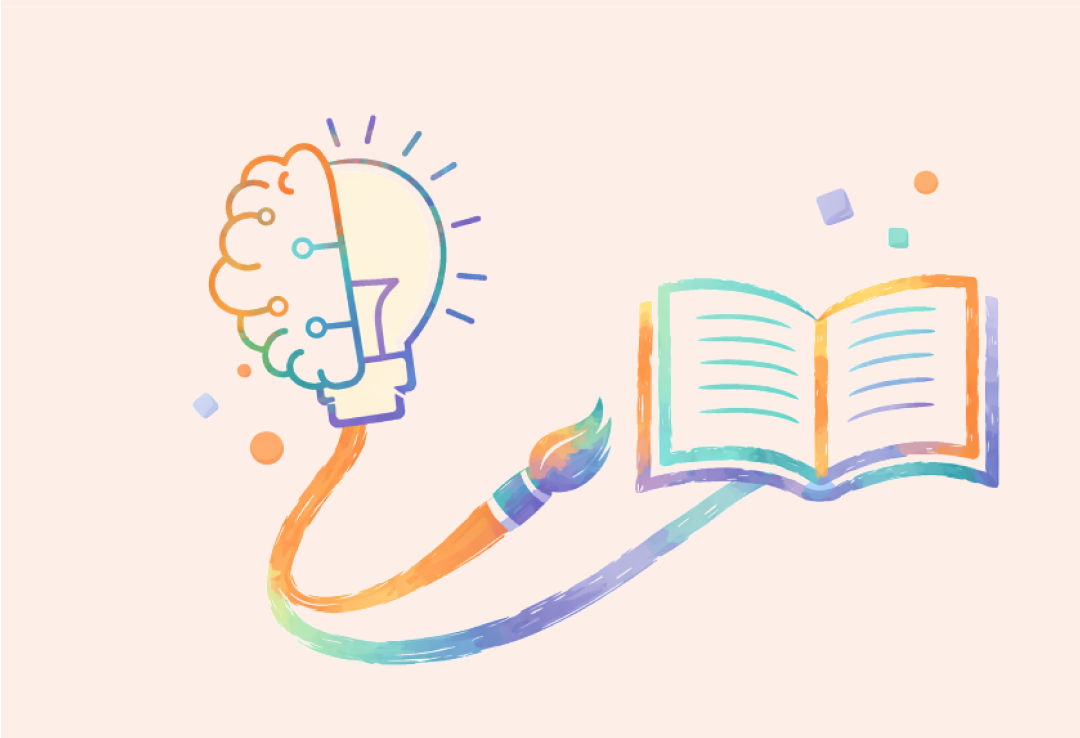
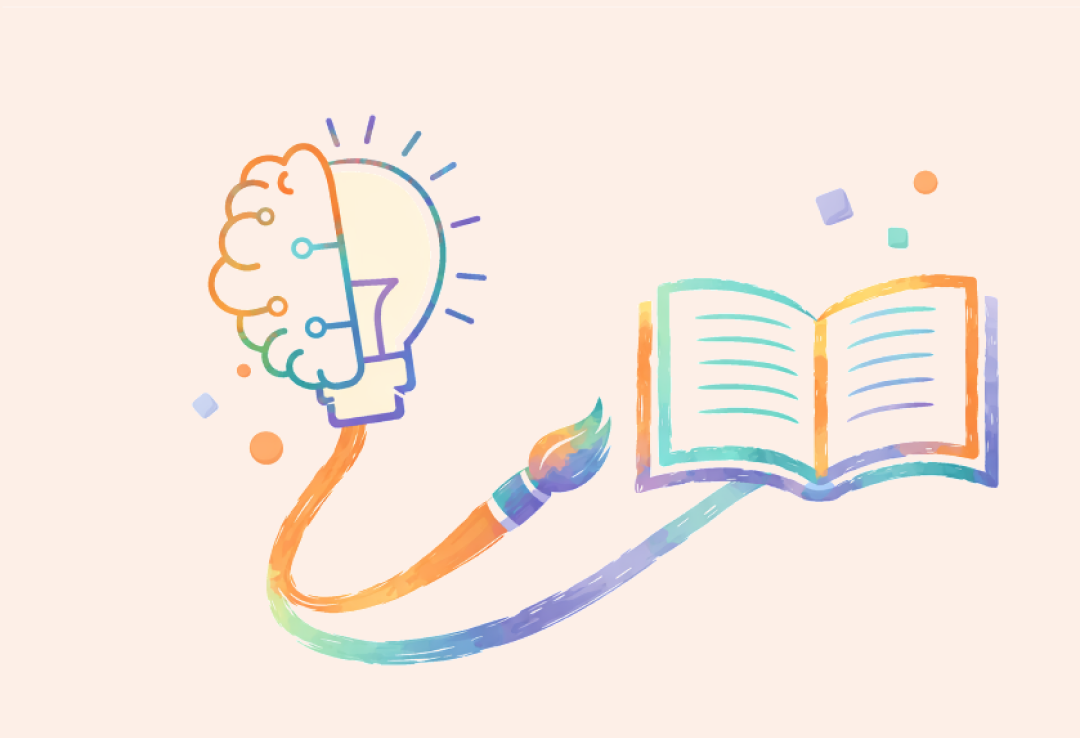
Actualizar PLANNER.md para incluir sección sobre tailwind.config.ts y reemplazar imagen en formato .webp por .png en el prototipo de inicio.

diff --git a/PLANNER.md b/PLANNER.md
@@ -77,7 +77,11 @@ Basado en el package.json:
     "tailwindcss": "^3.4.18",
     "typescript": "^5.9.3",
   }" 
-Basado en el tailwind.config.ts:
+
+
+
+
+4) Basado en el tailwind.config.ts:
 - "import type { Config } from 'tailwindcss';
 export default {
   content: ['./src/**/*.{astro,html,js,jsx,md,mdx,svelte,ts,tsx,vue}'],
